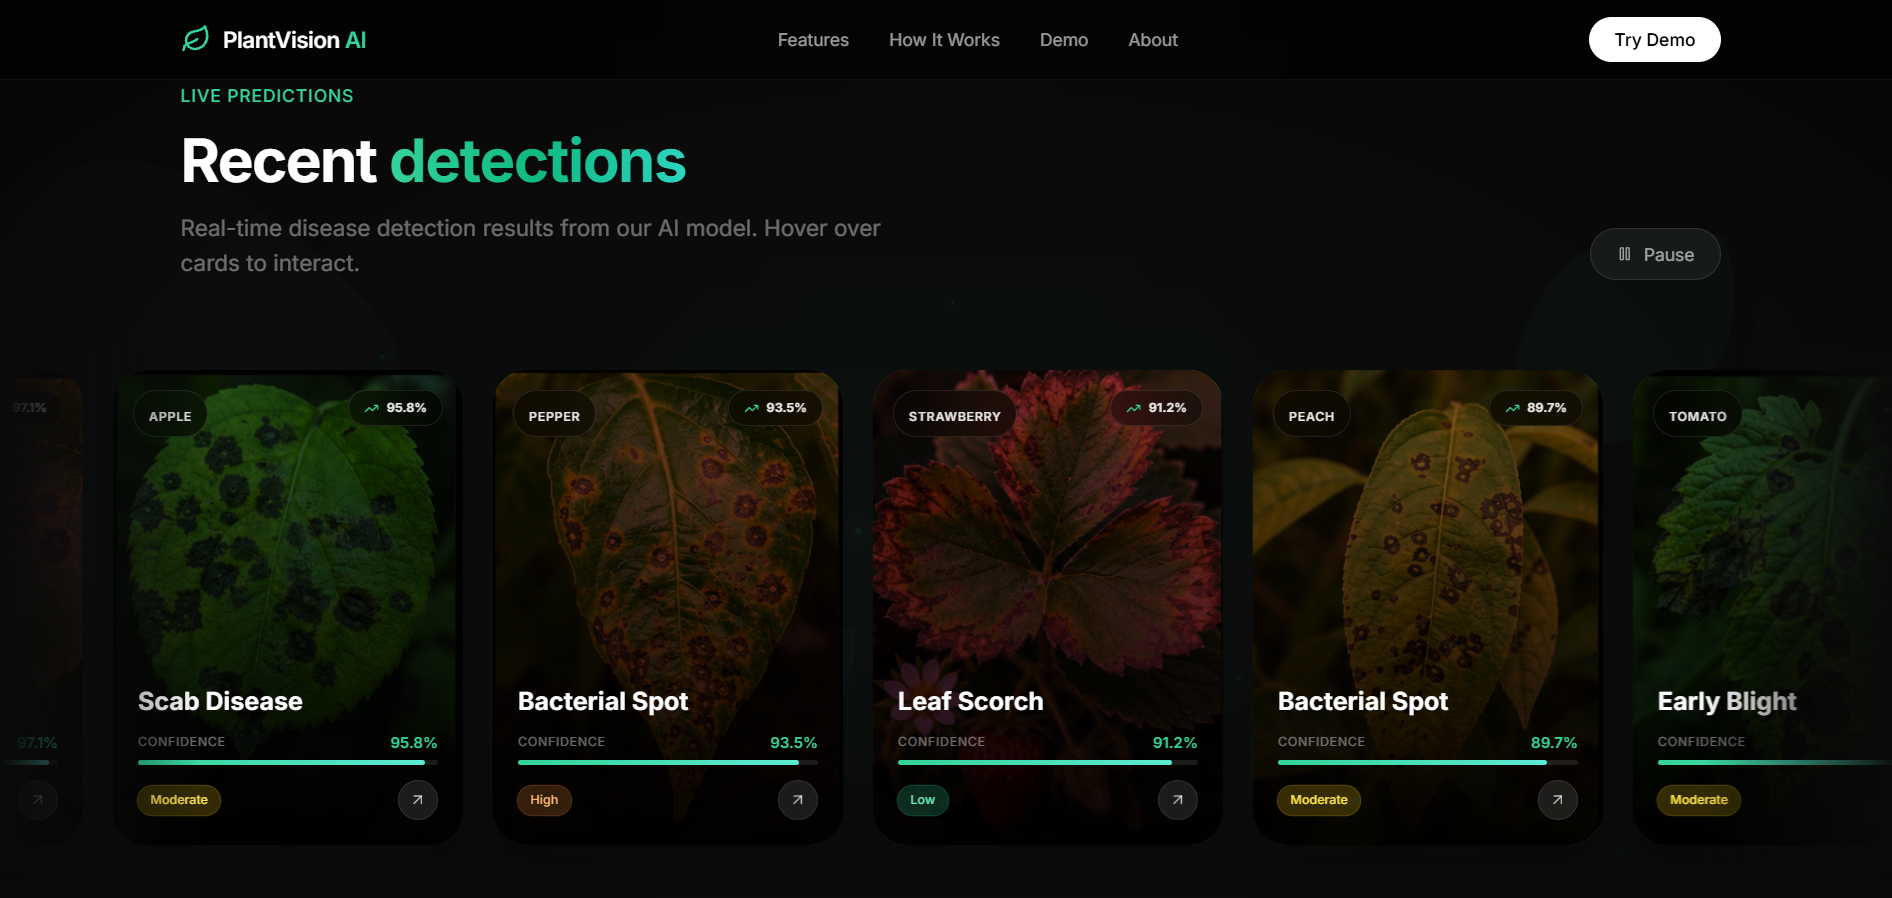
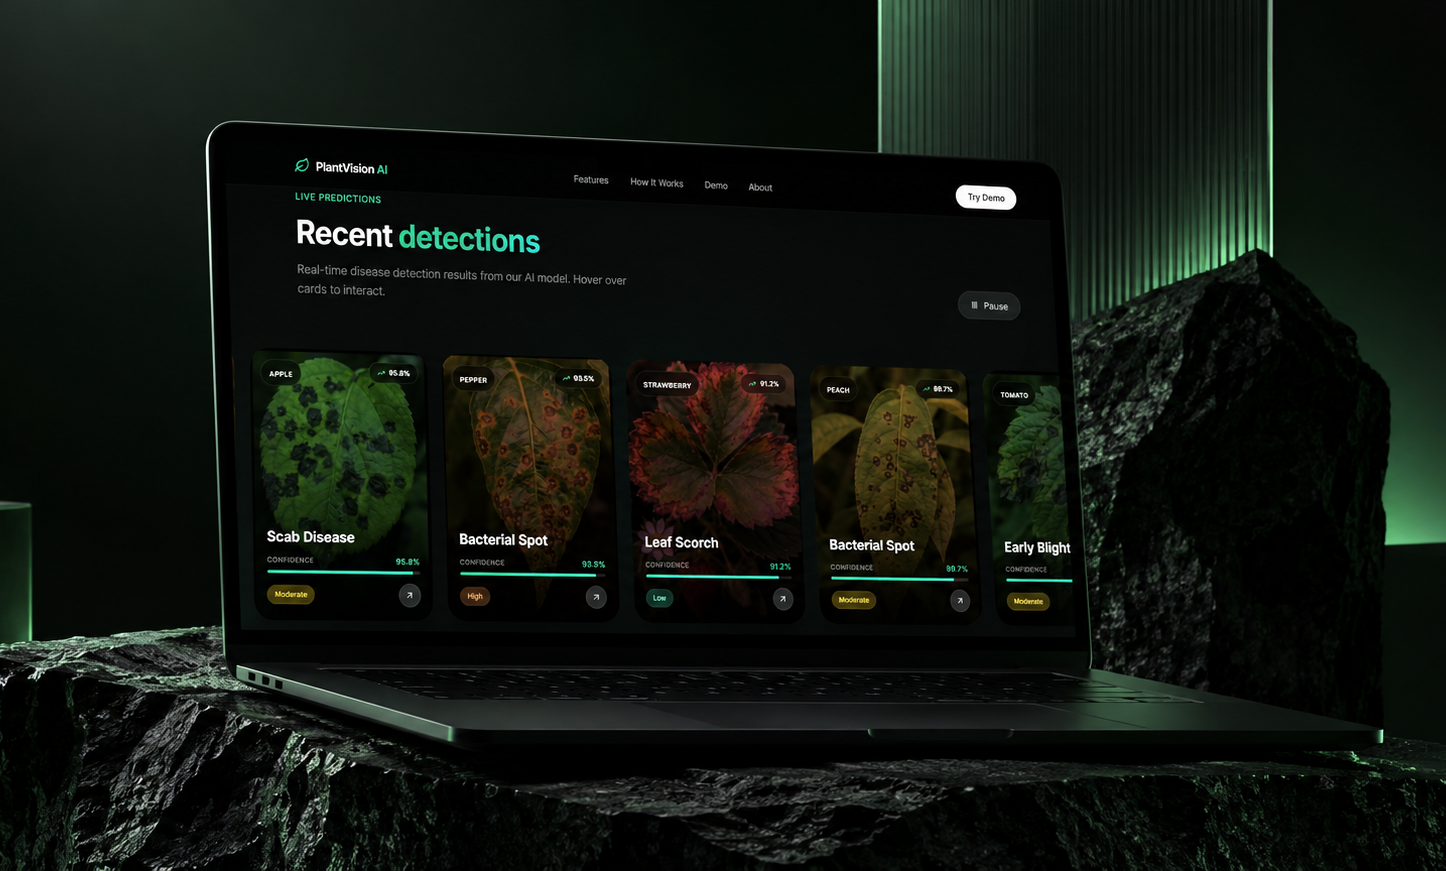
feat: update project showcase mockups and refine Contact section typography/header

diff --git a/src/components/Contact.tsx b/src/components/Contact.tsx
@@ -68,13 +68,8 @@ export default function Contact({ onOpenAbout }: ContactProps) {
           1. TOP BAR: Architectural Telemetry Header
           ========================================================================= */}
       <header className="relative z-10 w-full px-6 md:px-12 lg:px-16 flex items-center justify-between font-mono text-[10px] md:text-xs uppercase tracking-wider text-neutral-400">
-        {/* Left: Studio coordinate telemetry */}
-        <div className="flex items-center gap-2.5 sm:gap-3 text-neutral-400 font-mono">
-          <span className="text-[#de3421] font-bold">//</span>
-          <span className="tracking-widest">12.9716° N, 77.5946° E</span>
-          <span className="hidden sm:inline text-neutral-600">•</span>
-          <span className="hidden sm:inline text-neutral-400 tracking-wider">BENGALURU NODE</span>
-        </div>
+        {/* Left: Empty spacer to preserve right alignment of status */}
+        <div />
 
         {/* Right: Availability status & live clock */}
         <div className="flex items-center gap-4 sm:gap-6 text-[10px] md:text-xs">
@@ -100,15 +95,11 @@ export default function Contact({ onOpenAbout }: ContactProps) {
         
         {/* Left Column: Monumental Headline & Mission Brief */}
         <div className="lg:col-span-6 flex flex-col items-start max-w-xl">
-          <div className="inline-flex items-center gap-2 font-mono text-[10px] md:text-[11px] uppercase tracking-[0.2em] text-[#de3421] mb-3 md:mb-4">
-            <span>[ TRANSMISSION PROTOCOL ]</span>
-          </div>
-
           <h2
             className="font-black text-4xl sm:text-6xl md:text-7xl lg:text-[5.4rem] leading-[0.92] tracking-[-0.04em] text-white select-text"
             style={{ fontFamily: "'Inter Tight', var(--font-sans), sans-serif" }}
           >
-            Let&apos;s start<br />
+            Let<span className="text-[#de3421]">&apos;</span>s start<br />
             something<br />
             bold<span className="text-[#de3421]">.</span>
           </h2>

diff --git a/SESSION_LOG.md b/SESSION_LOG.md
@@ -1,5 +1,20 @@
 # Session Log
 
+## [2026-09-14 21:02] Refined Contact Section: Removed Coordinates & Transmission Badge, Colored Apostrophe Red
+- **Accomplishments**:
+  - **Removed Red-Circled Elements**:
+    - Removed coordinate telemetry (`// 12.9716° N, 77.5946° E • BENGALURU NODE`) from the top-left header in [`src/components/Contact.tsx`](file:///C:/Users/hiiam/OneDrive/Desktop/Python/Portfolio/src/components/Contact.tsx), while preserving the right-aligned availability status and live Bengaluru IST clock.
+    - Removed decorative badge `[ TRANSMISSION PROTOCOL ]` above the monumental headline.
+  - **Colored Green-Circled Apostrophe Red**:
+    - Styled the apostrophe in `Let's` with vermilion red (`<span className="text-[#de3421]">&apos;</span>`), creating balanced typographic punctuation synergy with the red period after `bold.`.
+  - **Verification & Build**:
+    - Next.js production build (`cmd /c "npm run build"`) passed with 0 errors and static prerendering.
+    - Visually verified changes in browser via Playwright.
+    - Updated AST knowledge graph via `graphify update .`.
+- **Key Files Modified**:
+  - [`src/components/Contact.tsx`](file:///C:/Users/hiiam/OneDrive/Desktop/Python/Portfolio/src/components/Contact.tsx): Removed header coordinates, removed transmission protocol badge, and applied vermilion red color to apostrophe.
+  - [`SESSION_LOG.md`](file:///C:/Users/hiiam/OneDrive/Desktop/Python/Portfolio/SESSION_LOG.md): Documented the update.
+
 ## [2026-09-14 20:05] Upgraded Projects Section: Pure Picture Tiles (Nudot Studio Style), Integrated Dress Up, Removed FarmWing
 - **Accomplishments**:
   - **Implemented Pure Picture Tiles (Zero Text, Matching Nudot Studio)**:
